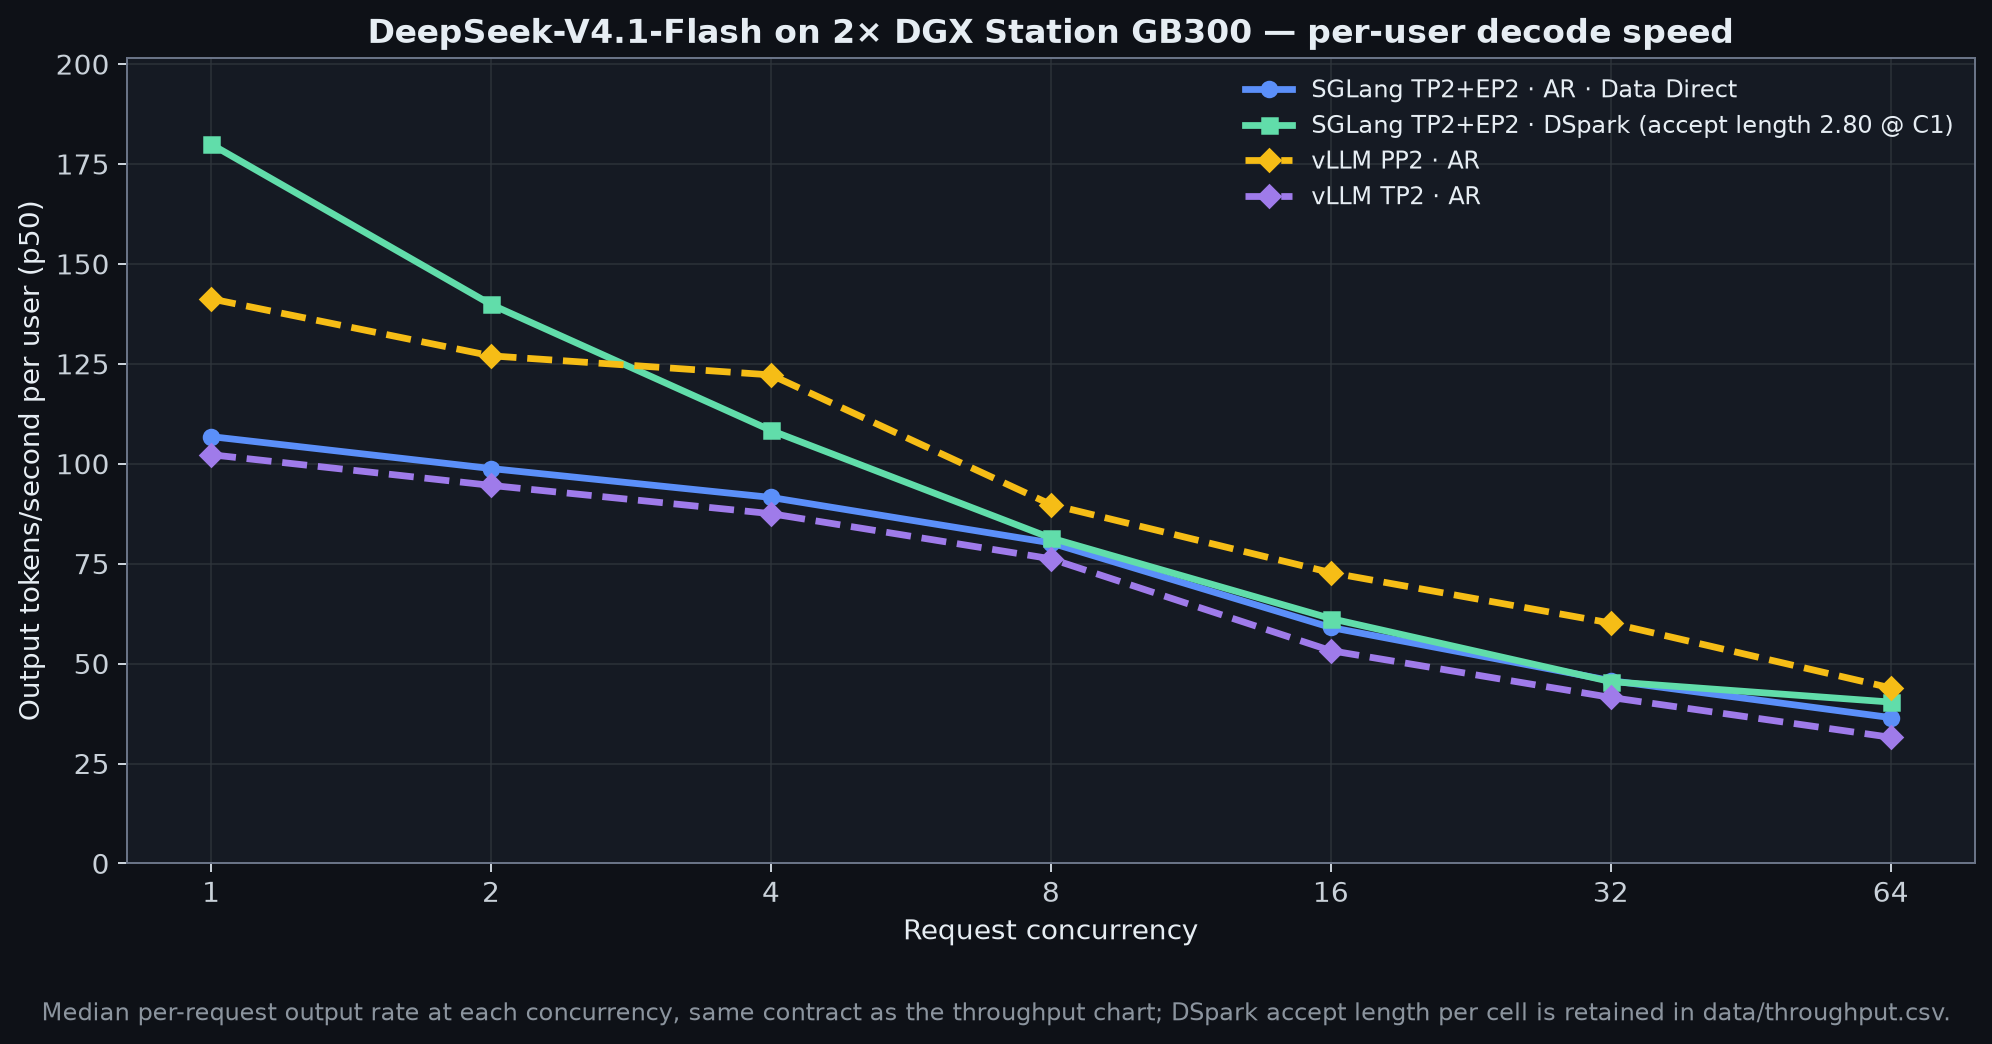
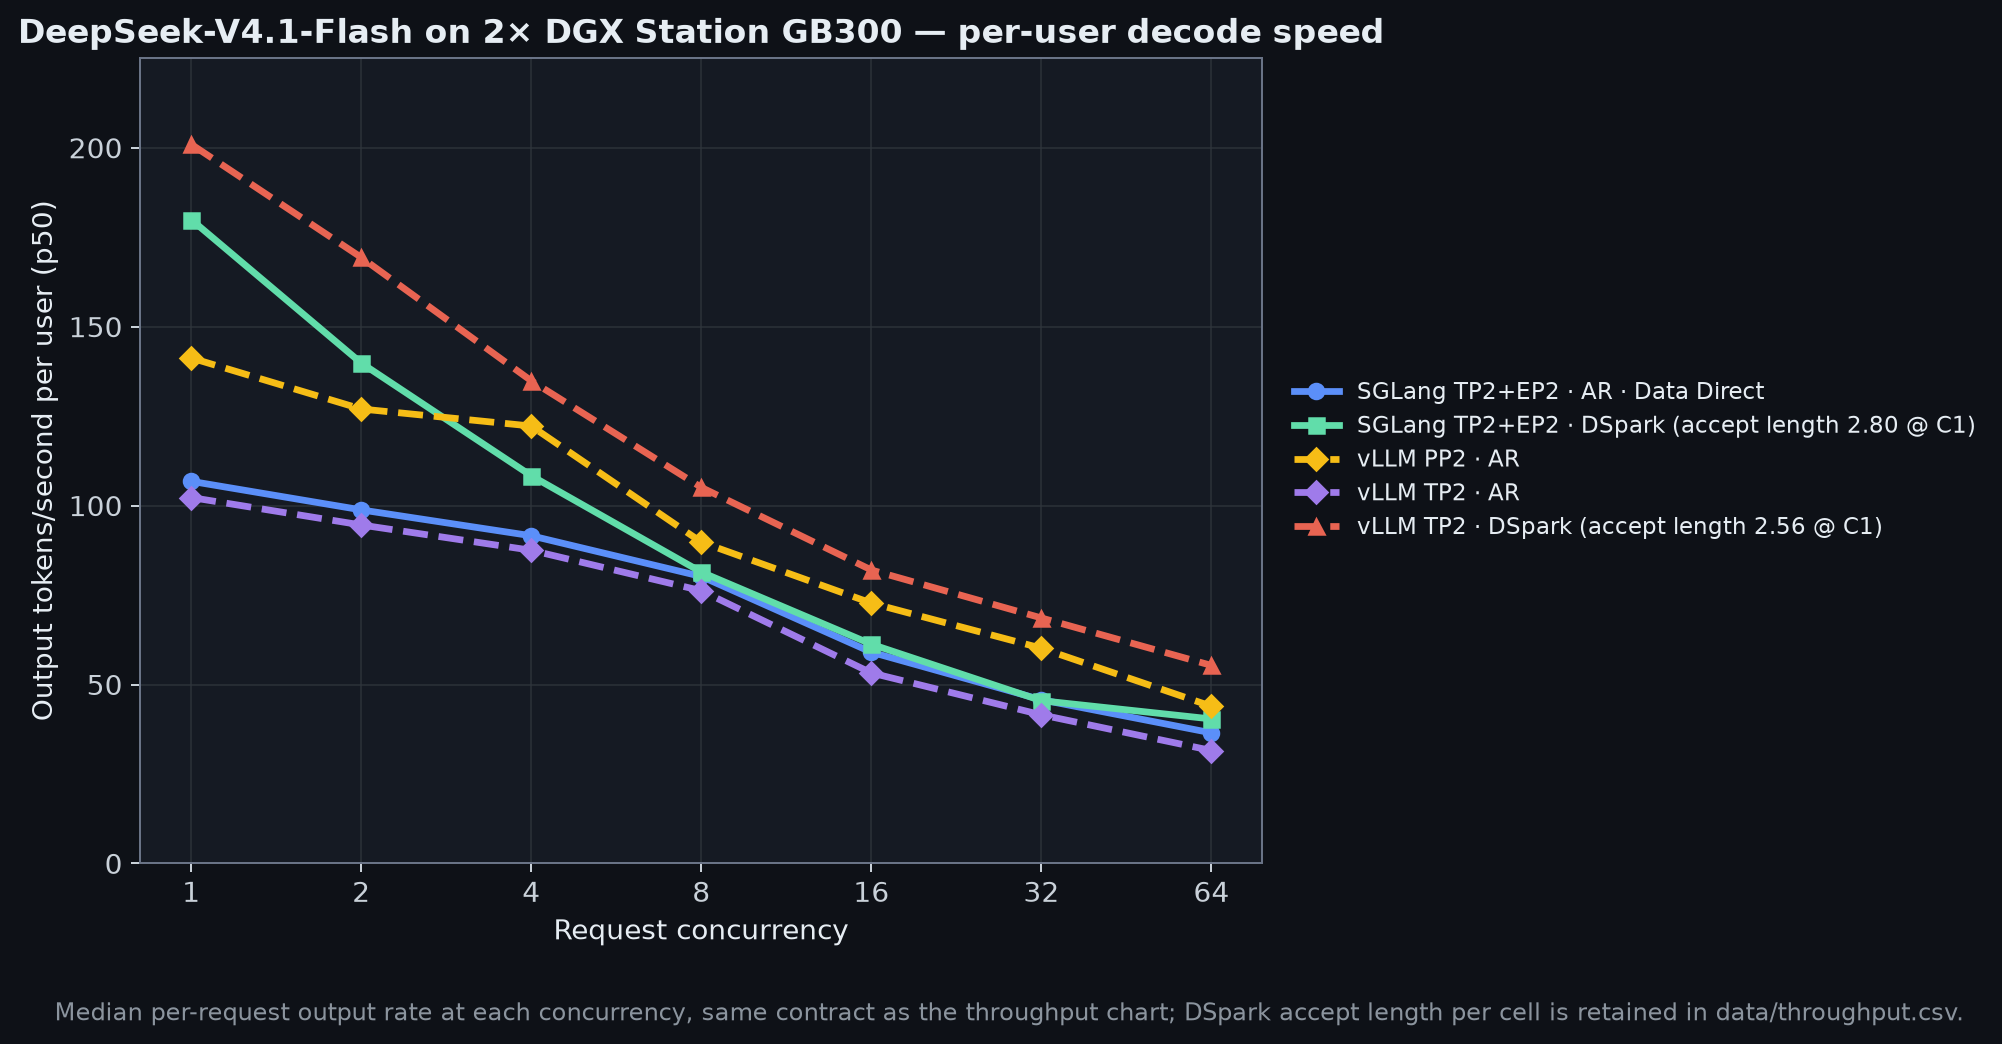
Add vLLM TP2 DSpark decode results to the DeepSeek-V4.1-Flash section
vLLM TP2 with DSpark speculative decoding (5 speculative tokens, block
rejection sampling, adaptive verification) is accepted for decode at
C1-C64 with 0 errors: 201.0 output tok/s per user at C1 (2.56 accepted
tokens per step) and 3,401.6 aggregate tok/s at C64, the best decode
values of every lane. Headline bullets, the Best-numbers row, both decode
tables and charts, the detailed notes and the root README row carry the
new lane; no placeholders remain in the section.

Claude-Session: https://claude.ai/code/session_01G6pAiZCB58AcVpxWZhJWVM

diff --git a/deepseek-v4.1-flash/tests/test_section_contract.py b/deepseek-v4.1-flash/tests/test_section_contract.py
@@ -67,6 +67,8 @@ HEADLINE_DECODE = (
     ("SGLANG_DSPARK_ACCEPT_C1", "sglang_tp2_ep2_dspark", 1, "accept"),
     ("SGLANG_AR_USER_C1", HEADLINE_LANE, 1, "user"),
     ("VLLM_PP2_USER_C1", VLLM_PP2_LANE, 1, "user"),
+    ("VLLM_TP2_DSPARK_USER_C1", "vllm_tp2_dspark", 1, "user"),
+    ("VLLM_TP2_DSPARK_ACCEPT_C1", "vllm_tp2_dspark", 1, "accept"),
 )
 # Repository overview row -> the (isl, concurrency) prefill points each lane contributes to it.
 OVERVIEW_PREFILL_POINTS = {

diff --git a/deepseek-v4.1-flash/README.md b/deepseek-v4.1-flash/README.md
@@ -1,6 +1,6 @@
 # DeepSeek-V4.1-Flash on 2× NVIDIA GB300 DGX Stations
 
-The official [`deepseek-ai/DeepSeek-V4.1-Flash`](https://huggingface.co/deepseek-ai/DeepSeek-V4.1-Flash) checkpoint at revision `dba1be0a40aa45a94ad051997016db3960a90277` (48 native FP8-dense / FP4-expert shards, 510,286,023,000 bytes, more than one GB300 holds), served across two DGX Stations over dual 400GbE RoCE rails by SGLang (TP2+EP2) and vLLM (TP1 × PP2 and TP2; the vLLM TP2 DSpark lane is pending), autoregressive and with DSpark speculative decoding.
+The official [`deepseek-ai/DeepSeek-V4.1-Flash`](https://huggingface.co/deepseek-ai/DeepSeek-V4.1-Flash) checkpoint at revision `dba1be0a40aa45a94ad051997016db3960a90277` (48 native FP8-dense / FP4-expert shards, 510,286,023,000 bytes, more than one GB300 holds), served across two DGX Stations over dual 400GbE RoCE rails by SGLang (TP2+EP2) and vLLM (TP1 × PP2 and TP2), autoregressive and with DSpark speculative decoding.
 
 [![vLLM PP2 social clip: one 128K request across two DGX Stations](assets/fly-vllm-preview.gif)](assets/fly-vllm-2xdgx.mp4)
 
@@ -16,8 +16,8 @@ The official [`deepseek-ai/DeepSeek-V4.1-Flash`](https://huggingface.co/deepseek
 - On the same vLLM image the pipeline split beats splitting every layer: PP2 delivers **55,992** versus **32,672 prompt tok/s** for one 128K request (+71.4%) and **65,966** versus **34,695** at 64K / C16 (+90.1%) over TP2, which pays a cross-node all-reduce in every layer while PP2 keeps both Engram layers on one stage.
 - SGLang TP2+EP2 with SWA bounded replay (the deployment technique DeepSeek's V4.1 report describes; faster than full prefill but not bit-identical to it): **39,549 tok/s** for a single 16K request (TTFT **0.415s**; a 128K prompt in **3.480s**) and **37,693 prompt tok/s** at 128K / C16 — the fastest single 16K request of any lane.
 - Exact full prefill (SGLang, replay off, the numerically exact reference): **24,419 prompt tok/s** at 128K / C16 and **26,316 tok/s** for a single 16K request (TTFT **0.623s**).
-- Per-user decode at C1: SGLang DSpark **180.0 tok/s per user at C1** (2.80 accepted tokens per step) versus **106.8 tok/s** SGLang autoregressive; vLLM PP2 autoregressive **141.3 tok/s**, ahead of SGLang autoregressive at every concurrency and of DSpark from C4 upward.
-- Peak decode: **2,805.9 aggregate tok/s** (vLLM PP2 · AR, C64) versus **2,392.3** for SGLang DSpark and **2,236.7** for SGLang AR · Data Direct at C64 (+17.3% / +25.4%); DSpark still beats SGLang AR at C64 (+7.0%) with 2.54 accepted tokens per step.
+- Per-user decode at C1: vLLM TP2 DSpark **201.0 tok/s per user at C1** (2.56 accepted tokens per step) versus SGLang DSpark **180.0 tok/s** (2.80 accepted tokens per step), vLLM PP2 autoregressive **141.3 tok/s**, and SGLang autoregressive **106.8 tok/s**; vLLM TP2 DSpark leads every lane at every concurrency, per user and in aggregate, and nearly doubles its own AR server at C1 (102.3 tok/s).
+- Peak decode: **3,401.6 aggregate tok/s** (vLLM TP2 · DSpark, C64) versus **2,805.9** for vLLM PP2 · AR (+21.2%), **2,392.3** for SGLang DSpark (+42.2%) and **2,236.7** for SGLang AR · Data Direct (+52.1%) at C64; among the autoregressive lanes PP2 leads, and SGLang DSpark still beats SGLang AR at C64 (+7.0%).
 - Data Direct RDMA lifted the same SGLang server from **16,621** to **25,638 prompt tok/s** (+54.2%) at 64K prompts, C16, and SWA bounded replay took it to **39,133** (+135.4% versus stock, +52.6% versus Data Direct alone); vLLM PP2 reaches **65,966** at that point (+296.9% versus stock, +68.6% versus the best SGLang step); NCCL fell from **54.8%** to **29.2%** of GPU kernel time in a 32K prefill.
 - Dual-rail NCCL all-reduce: **93.7 GB/s** bus bandwidth at 2 GiB versus **48.7 GB/s** on one rail.
 
@@ -28,10 +28,10 @@ The official [`deepseek-ai/DeepSeek-V4.1-Flash`](https://huggingface.co/deepseek
 | SGLang AR · stock RDMA† | 16,098 | 16,621 | — | — |
 | SGLang AR · Data Direct | 24,394 | 25,638 | 106.8 | 2,236.7 |
 | SGLang AR + SWA replay | 37,674 | 39,133 | — | — |
-| SGLang DSpark† | — | — | **180.0** | 2,392.3 |
-| vLLM PP2 · AR | **55,992** | **65,966** | 141.3 | **2,805.9** |
+| SGLang DSpark† | — | — | 180.0 | 2,392.3 |
+| vLLM PP2 · AR | **55,992** | **65,966** | 141.3 | 2,805.9 |
 | vLLM TP2 · AR | 32,672 | 34,695 | 102.3 | 1,964.5 |
-| vLLM TP2 · DSpark | — | — | {{VLLM_TP2_DSPARK_USER_C1}} | {{VLLM_TP2_DSPARK_DECODE_C64}} |
+| vLLM TP2 · DSpark | — | — | **201.0** | **3,401.6** |
 
 *Prompt tok/s for one 128K request and aggregate at 64K with 16 requests in flight; output tok/s per user at C1 and aggregate at C64. Bold is the best accepted value in the column, † a diagnostic lane that is drawn but never ranked, — a point outside the lane's measured grid. Every measured configuration is its own series on every chart; accepted lanes rank, and the replay-off SGLang lane is the numerically exact reference. One station was not attempted. Full per-lane grids with TTFT, ITL, and accept lengths: [notes/](notes/).*
 
@@ -68,29 +68,29 @@ The official [`deepseek-ai/DeepSeek-V4.1-Flash`](https://huggingface.co/deepseek
 
 ![DeepSeek-V4.1-Flash aggregate decode throughput versus concurrency](charts/decode-throughput.png)
 
-*Aggregate output tok/s versus concurrency, AR and DSpark on both engines; 8,192-token input, 1,024 forced output tokens, temperature 0, `C` warm-ups then `5 × C` measured requests. vLLM TP2 trails PP2 at every concurrency; SGLang DSpark beats SGLang AR at every concurrency, including C64, and trails vLLM PP2 at C4 and from C16 upward (C8 is a near tie in DSpark's favour).*
+*Aggregate output tok/s versus concurrency, AR and DSpark on both engines; 8,192-token input, 1,024 forced output tokens, temperature 0, `C` warm-ups then `5 × C` measured requests. vLLM TP2 DSpark leads at every concurrency (+21.2% over vLLM PP2 AR at C64); vLLM TP2 AR trails PP2 AR throughout, and SGLang DSpark beats SGLang AR at every concurrency but trails vLLM PP2 AR at C4 and from C16 upward.*
 
 | Configuration | C1 | C4 | C16 | C32 | C64 |
 | --- | ---: | ---: | ---: | ---: | ---: |
 | SGLang AR · Data Direct | 104.2 | 352.4 | 906.8 | 1,410.3 | 2,236.7 |
-| SGLang DSpark | **169.2** | 416.6 | 946.2 | 1,418.3 | 2,392.3 |
-| vLLM PP2 · AR | 140.6 | **431.1** | **1,033.4** | **1,878.0** | **2,805.9** |
+| SGLang DSpark | 169.2 | 416.6 | 946.2 | 1,418.3 | 2,392.3 |
+| vLLM PP2 · AR | 140.6 | 431.1 | 1,033.4 | 1,878.0 | 2,805.9 |
 | vLLM TP2 · AR | 101.9 | 343.5 | 803.7 | 1,272.0 | 1,964.5 |
-| vLLM TP2 · DSpark | {{VLLM_TP2_DSPARK_DECODE_C1}} | {{VLLM_TP2_DSPARK_DECODE_C4}} | {{VLLM_TP2_DSPARK_DECODE_C16}} | {{VLLM_TP2_DSPARK_DECODE_C32}} | {{VLLM_TP2_DSPARK_DECODE_C64}} |
+| vLLM TP2 · DSpark | **201.7** | **525.3** | **1,275.5** | **2,116.8** | **3,401.6** |
 
 ## Per-user decode speed
 
 ![DeepSeek-V4.1-Flash per-user decode speed versus concurrency](charts/decode-per-user.png)
 
-*Median per-request output tok/s at each concurrency: DSpark leads at C1–C2 (2.80 accepted tokens per step at C1), vLLM PP2 from C4 upward; the accept length per cell is kept in [data/throughput.csv](data/throughput.csv).*
+*Median per-request output tok/s at each concurrency: vLLM TP2 DSpark leads at every concurrency (2.56 accepted tokens per step at C1); among the rest SGLang DSpark leads at C1–C2 (2.80 accepted tokens per step) and vLLM PP2 AR from C4 upward. The accept length per cell is kept in [data/throughput.csv](data/throughput.csv).*
 
 | Configuration | C1 | C4 | C16 | C32 | C64 |
 | --- | ---: | ---: | ---: | ---: | ---: |
 | SGLang AR · Data Direct | 106.8 | 91.6 | 59.0 | 45.7 | 36.5 |
-| SGLang DSpark | **180.0** | 108.4 | 61.3 | 45.5 | 40.4 |
-| vLLM PP2 · AR | 141.3 | **122.2** | **72.8** | **60.2** | **43.9** |
+| SGLang DSpark | 180.0 | 108.4 | 61.3 | 45.5 | 40.4 |
+| vLLM PP2 · AR | 141.3 | 122.2 | 72.8 | 60.2 | 43.9 |
 | vLLM TP2 · AR | 102.3 | 87.5 | 53.2 | 41.5 | 31.6 |
-| vLLM TP2 · DSpark | {{VLLM_TP2_DSPARK_USER_C1}} | {{VLLM_TP2_DSPARK_USER_C4}} | {{VLLM_TP2_DSPARK_USER_C16}} | {{VLLM_TP2_DSPARK_USER_C32}} | {{VLLM_TP2_DSPARK_USER_C64}} |
+| vLLM TP2 · DSpark | **201.0** | **134.9** | **82.0** | **68.6** | **55.3** |
 
 ## SGLang prefill tuning ladder
 

diff --git a/deepseek-v4.1-flash/notes/README.md b/deepseek-v4.1-flash/notes/README.md
@@ -51,15 +51,15 @@ tables in [`../data/`](../data/), which the section tests enforce.
 
 ### Decode throughput
 
-*Aggregate output tok/s versus request concurrency (AR and DSpark, both engines); 8,192-token input, 1,024 forced output tokens, temperature 0, `C` warm-ups then `5 × C` measured requests. All four decode lanes with rows (SGLang AR, SGLang DSpark, vLLM PP2 AR, vLLM TP2 AR) are accepted; the vLLM TP2 DSpark lane is pending. vLLM TP2 AR trails PP2 AR at every concurrency (102.3 versus 141.3 tok/s per user at C1; 1,964.5 versus 2,805.9 aggregate tok/s at C64): under TP2 every decode step pays the cross-node all-reduce in each layer, while PP2 only hands activations between stages once per step. The SGLang DSpark C64 cell comes from a follow-up run on the same server profile and contract; at C64 DSpark (2,392.3) beats SGLang AR (2,236.7, +7.0%) with 2.54 accepted tokens per step but trails vLLM PP2 AR (2,805.9, −14.7%). The C2 and C8 cells and every TTFT, ITL, and accept length are in [`throughput.csv`](../data/throughput.csv).*
+*Aggregate output tok/s versus request concurrency (AR and DSpark, both engines); 8,192-token input, 1,024 forced output tokens, temperature 0, `C` warm-ups then `5 × C` measured requests. All five decode lanes are accepted. vLLM TP2 DSpark (`--speculative-config` dspark, 5 speculative tokens, block rejection sampling, adaptive verification) leads every lane at every concurrency: 201.7 aggregate tok/s at C1 and 3,401.6 at C64, +21.2% over vLLM PP2 AR and +73.2% over its own AR server at C64, with 2.23–2.56 accepted tokens per step across the sweep. vLLM TP2 AR trails PP2 AR at every concurrency (102.3 versus 141.3 tok/s per user at C1; 1,964.5 versus 2,805.9 aggregate tok/s at C64): under TP2 every decode step pays the cross-node all-reduce in each layer, while PP2 only hands activations between stages once per step. The SGLang DSpark C64 cell comes from a follow-up run on the same server profile and contract; at C64 DSpark (2,392.3) beats SGLang AR (2,236.7, +7.0%) with 2.54 accepted tokens per step but trails vLLM PP2 AR (2,805.9, −14.7%). The C2 and C8 cells and every TTFT, ITL, and accept length are in [`throughput.csv`](../data/throughput.csv).*
 
 | C | SGLang AR · Data Direct | SGLang DSpark | vLLM PP2 · AR | vLLM TP2 · AR | vLLM TP2 · DSpark |
 | ---: | ---: | ---: | ---: | ---: | ---: |
-| 1 | 104.2 | **169.2** | 140.6 | 101.9 | {{VLLM_TP2_DSPARK_DECODE_C1}} |
-| 4 | 352.4 | 416.6 | **431.1** | 343.5 | {{VLLM_TP2_DSPARK_DECODE_C4}} |
-| 16 | 906.8 | 946.2 | **1,033.4** | 803.7 | {{VLLM_TP2_DSPARK_DECODE_C16}} |
-| 32 | 1,410.3 | 1,418.3 | **1,878.0** | 1,272.0 | {{VLLM_TP2_DSPARK_DECODE_C32}} |
-| 64 | 2,236.7 | 2,392.3 | **2,805.9** | 1,964.5 | {{VLLM_TP2_DSPARK_DECODE_C64}} |
+| 1 | 104.2 | 169.2 | 140.6 | 101.9 | **201.7** |
+| 4 | 352.4 | 416.6 | 431.1 | 343.5 | **525.3** |
+| 16 | 906.8 | 946.2 | 1,033.4 | 803.7 | **1,275.5** |
+| 32 | 1,410.3 | 1,418.3 | 1,878.0 | 1,272.0 | **2,116.8** |
+| 64 | 2,236.7 | 2,392.3 | 2,805.9 | 1,964.5 | **3,401.6** |
 
 ### Per-user decode speed
 
@@ -67,11 +67,11 @@ tables in [`../data/`](../data/), which the section tests enforce.
 
 | C | SGLang AR · Data Direct | SGLang DSpark | vLLM PP2 · AR | vLLM TP2 · AR | vLLM TP2 · DSpark |
 | ---: | ---: | ---: | ---: | ---: | ---: |
-| 1 | 106.8 | **180.0** | 141.3 | 102.3 | {{VLLM_TP2_DSPARK_USER_C1}} |
-| 4 | 91.6 | 108.4 | **122.2** | 87.5 | {{VLLM_TP2_DSPARK_USER_C4}} |
-| 16 | 59.0 | 61.3 | **72.8** | 53.2 | {{VLLM_TP2_DSPARK_USER_C16}} |
-| 32 | 45.7 | 45.5 | **60.2** | 41.5 | {{VLLM_TP2_DSPARK_USER_C32}} |
-| 64 | 36.5 | 40.4 | **43.9** | 31.6 | {{VLLM_TP2_DSPARK_USER_C64}} |
+| 1 | 106.8 | 180.0 | 141.3 | 102.3 | **201.0** |
+| 4 | 91.6 | 108.4 | 122.2 | 87.5 | **134.9** |
+| 16 | 59.0 | 61.3 | 72.8 | 53.2 | **82.0** |
+| 32 | 45.7 | 45.5 | 60.2 | 41.5 | **68.6** |
+| 64 | 36.5 | 40.4 | 43.9 | 31.6 | **55.3** |
 
 ### SGLang prefill tuning ladder
 
@@ -116,7 +116,7 @@ tables in [`../data/`](../data/), which the section tests enforce.
 | SGLang `dev-dsv41` | TP2+EP2 | DSpark | diagnostic only: 16K/64K C1 spot check (0 errors) | accepted (C1–C64, 0 errors; C64 from a follow-up run) |
 | vLLM `deepseekv41-flash-0909` | TP1 × PP2 | AR · text-only, two local patches | accepted (12/12 points, 0 errors) | accepted (C1–C64, 0 errors) |
 | vLLM `deepseekv41-flash-0909` | TP2 | AR · text-only | accepted (12/12 points, 0 errors); rank 0 on node1 | accepted (C1–C64, 0 errors); rank 0 on node1 |
-| vLLM `deepseekv41-flash-0909` | TP2 | DSpark | not measured | {{STATUS_VLLM_TP2_DSPARK_DECODE}} |
+| vLLM `deepseekv41-flash-0909` | TP2 | DSpark | not measured | accepted (C1–C64, 0 errors); rank 0 on node1 |
 | — | 1× GB300 | — | not attempted | not attempted |
 
 Pending, failed, unsupported, and unmeasured cells never appear as numeric
@@ -279,6 +279,19 @@ one GB300. The lane ledger is [`qualification.csv`](../data/qualification.csv).
   Data Direct at every concurrency (106.8 per user at C1, 2,236.7 aggregate
   at C64). Each decode step under TP2 ends every layer in a cross-node
   all-reduce, the same cost that keeps its prefill flat in concurrency.
+- **TP2 DSpark on the same image** (lane `vllm_tp2_dspark`, the TP2 server
+  restarted with `--speculative-config` dspark: 5 speculative tokens, block
+  rejection sampling, adaptive verification on; run 20260910-221511, C1–C64,
+  0 errors) is the fastest decode lane of the section at every concurrency:
+  201.7 / 525.3 / 1,275.5 / 2,116.8 / 3,401.6 aggregate tok/s and
+  201.0 / 134.9 / 82.0 / 68.6 / 55.3 tok/s per user at C1 / C4 / C16 / C32 /
+  C64, with 2.56 accepted tokens per step at C1 and 2.23–2.43 from C4 up.
+  Against the same server without speculation that is +96.5% per user at C1
+  and +73.2% aggregate at C64; against vLLM PP2 AR, +42.3% and +21.2%; against
+  SGLang DSpark, +11.7% per user at C1 and +42.2% aggregate at C64. ITL p50
+  fell from 9.78 ms (TP2 AR) to 4.97 ms at C1 and from 31.68 ms to 18.07 ms at
+  C64. vLLM's DSpark runner rejects pipeline parallelism, so the speculative
+  lane is TP2 only; prefill was not measured on this server profile.
 
 ## Profiles
 
@@ -447,7 +460,8 @@ one GB300. The lane ledger is [`qualification.csv`](../data/qualification.csv).
   settings excluded by the bisect above). The OS-reboot-between-lanes
   workaround and `SWAP_RANKS=1` are in the recipe; the vendor question is
   open.
-- The vLLM TP2 AR prefill grid and AR decode sweep are accepted; the TP2
-  DSpark decode lane was still pending when this was written and fills the
-  remaining placeholders once it completes error-free. vLLM's DSpark runner
-  rejects pipeline parallelism, so there is no PP2 DSpark lane.
+- Every vLLM lane is accepted (PP2 AR prefill and decode, TP2 AR prefill and
+  decode, TP2 DSpark decode); no placeholders remain. vLLM's stock DSpark
+  runner rejects pipeline parallelism, so there is no PP2 DSpark lane; a
+  PP2 + DSpark overlay experiment is in progress and nothing from it is
+  published here.

diff --git a/README.md b/README.md
@@ -28,7 +28,7 @@ performance tuning, runtime quirks, benchmarking practice, and safe recovery.
 | [nanoGPT training](nanogpt-training/) | modded-nanogpt FineWeb time-to-loss plus classic GPT-2 124M; 1× and 2× GB300 | modded 2×: 225.081 s to loss 3.2764; classic 2×: 1.838M tok/s; 95.0% / 98.95% scaling efficiency |
 | [GDN2 vs Mamba-3 vs Transformer Engine](gdn2-mamba3-te-comparison/) | Matched full training at ~1B parameters and 2,048 tokens, plus a separate GDN2 operator control | TE delayed FP8: 413.3k / 817.3k tokens/s; GDN2 BF16: 147.5k / 288.2k; Mamba-3 SISO BF16: 85.5k / 169.1k |
 | [DeepSeek-V4-Flash-0731](deepseek-v4-flash-0731/) | 304B/13B-active native mixed FP4-expert/FP8-dense checkpoint | DSpark: 345.8 output tok/s at C1; C128 raw, capacity-limited: 6,511.1 aggregate output tok/s |
-| [DeepSeek-V4.1-Flash](deepseek-v4.1-flash/) | Official native FP8-dense/FP4-expert checkpoint; 2× DGX Station only: SGLang TP2+EP2 and vLLM PP2 over Data Direct RDMA (1× not attempted) | Prefill: vLLM PP2 55,992 prompt tok/s for one 128K request, 65,966 aggregate at 64K C16; SGLang +SWA replay 39,549 for one 16K request, 37,693 aggregate at 128K C16 (exact full prefill 26,316 / 24,419); decode: SGLang DSpark C1 180.0 output tok/s |
+| [DeepSeek-V4.1-Flash](deepseek-v4.1-flash/) | Official native FP8-dense/FP4-expert checkpoint; 2× DGX Station only: SGLang TP2+EP2 and vLLM PP2/TP2 (DSpark) over Data Direct RDMA (1× not attempted) | Prefill: vLLM PP2 55,992 prompt tok/s for one 128K request, 65,966 aggregate at 64K C16; SGLang +SWA replay 39,549 for one 16K request, 37,693 aggregate at 128K C16 (exact full prefill 26,316 / 24,419); decode: vLLM TP2 DSpark 201.0 output tok/s per user at C1 and 3,401.6 aggregate at C64; SGLang DSpark C1 180.0 output tok/s |
 | [Ornith-1.5-397B](ornith-1.5-397b/) | Official ModelOpt NVFP4 W4A4 checkpoint; 1× TP1 and 2× PP2/TP2+EP | 1× C1: 129.8 output tok/s; 2× PP2 stable, capacity-limited C128: 3,799.6 aggregate tok/s |
 | [GLM-5.2](glm-5.2/) | Official NVIDIA NVFP4 checkpoint; 2× TP2+EP (1× does not fit) | C1: 68.0 output tok/s; shared-prefix C128: 2,012.4 aggregate tok/s |
 | [GLM-5.3-Flash](glm-5.3-flash/) | Official native FP8/vLLM plus `LibertAIDAI/GLM-5.3-Flash-NVFP4`/SGLang on 1× and 2× GB300; DFlash2 speculative decoding uses that NVFP4 base; 4× RTX PRO 6000 reference data | 1×: DFlash2 187.1 tok/s C1, AR 1,005.1 C64; 2×: DFlash2 198.0 C1 and 1,738.6 C64, AR 2,100.4 C64 |

diff --git a/deepseek-v4.1-flash/notes/PLACEHOLDERS.md b/deepseek-v4.1-flash/notes/PLACEHOLDERS.md
@@ -9,16 +9,5 @@ placeholder for a pending run.
 
 | Token | Files | Source and format |
 | --- | --- | --- |
-| `{{STATUS_VLLM_TP2_DSPARK_DECODE}}` | notes/README.md | lane disposition wording for the 'What was measured' table (accepted / pending / diagnostic only / failed: reason) |
-| `{{VLLM_TP2_DSPARK_DECODE_C16}}` | README.md, notes/README.md | throughput.csv aggregate_output_tokens_per_second, vLLM TP2 DSpark, f'{v:,.1f}' |
-| `{{VLLM_TP2_DSPARK_DECODE_C1}}` | README.md, notes/README.md | throughput.csv aggregate_output_tokens_per_second, vLLM TP2 DSpark, f'{v:,.1f}' |
-| `{{VLLM_TP2_DSPARK_DECODE_C32}}` | README.md, notes/README.md | throughput.csv aggregate_output_tokens_per_second, vLLM TP2 DSpark, f'{v:,.1f}' |
-| `{{VLLM_TP2_DSPARK_DECODE_C4}}` | README.md, notes/README.md | throughput.csv aggregate_output_tokens_per_second, vLLM TP2 DSpark, f'{v:,.1f}' |
-| `{{VLLM_TP2_DSPARK_DECODE_C64}}` | README.md, notes/README.md | throughput.csv aggregate_output_tokens_per_second, vLLM TP2 DSpark, f'{v:,.1f}' |
-| `{{VLLM_TP2_DSPARK_USER_C16}}` | README.md, notes/README.md | throughput.csv per_user_output_tokens_per_second_p50, vLLM TP2 DSpark, f'{v:,.1f}' |
-| `{{VLLM_TP2_DSPARK_USER_C1}}` | README.md, notes/README.md | throughput.csv per_user_output_tokens_per_second_p50, vLLM TP2 DSpark, f'{v:,.1f}' |
-| `{{VLLM_TP2_DSPARK_USER_C32}}` | README.md, notes/README.md | throughput.csv per_user_output_tokens_per_second_p50, vLLM TP2 DSpark, f'{v:,.1f}' |
-| `{{VLLM_TP2_DSPARK_USER_C4}}` | README.md, notes/README.md | throughput.csv per_user_output_tokens_per_second_p50, vLLM TP2 DSpark, f'{v:,.1f}' |
-| `{{VLLM_TP2_DSPARK_USER_C64}}` | README.md, notes/README.md | throughput.csv per_user_output_tokens_per_second_p50, vLLM TP2 DSpark, f'{v:,.1f}' |
 
-11 placeholders.
+0 placeholders.
